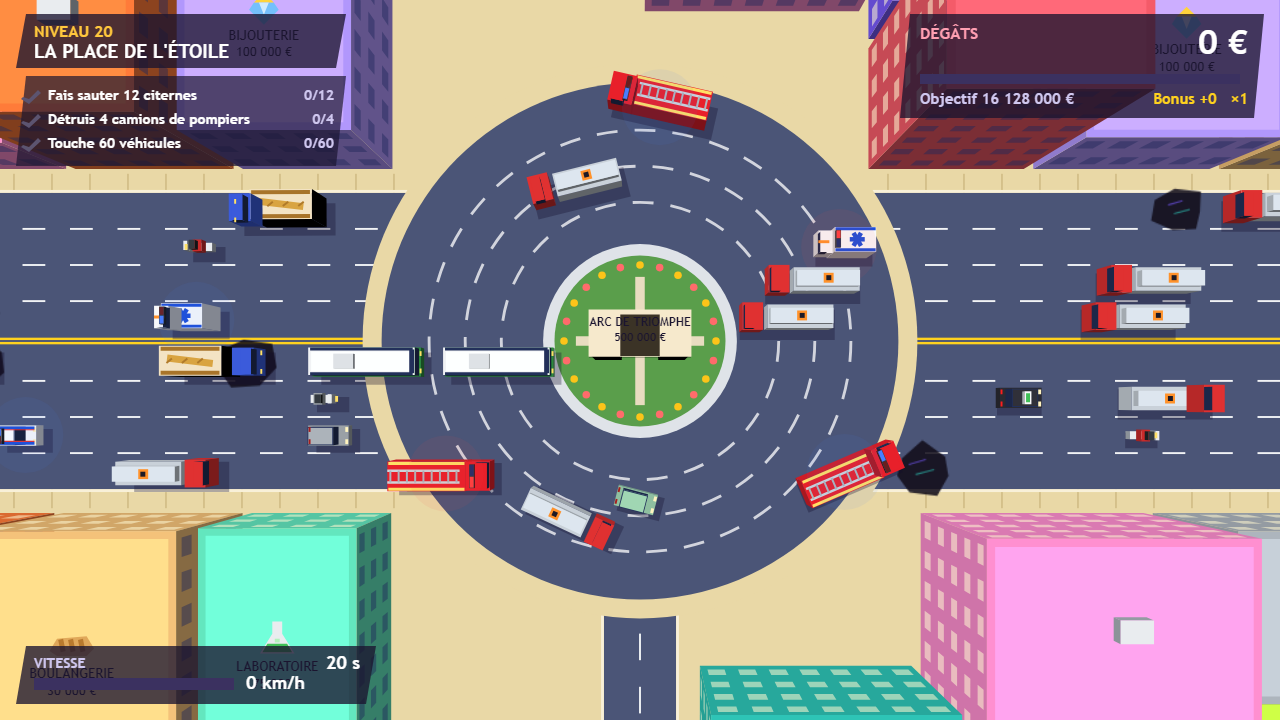
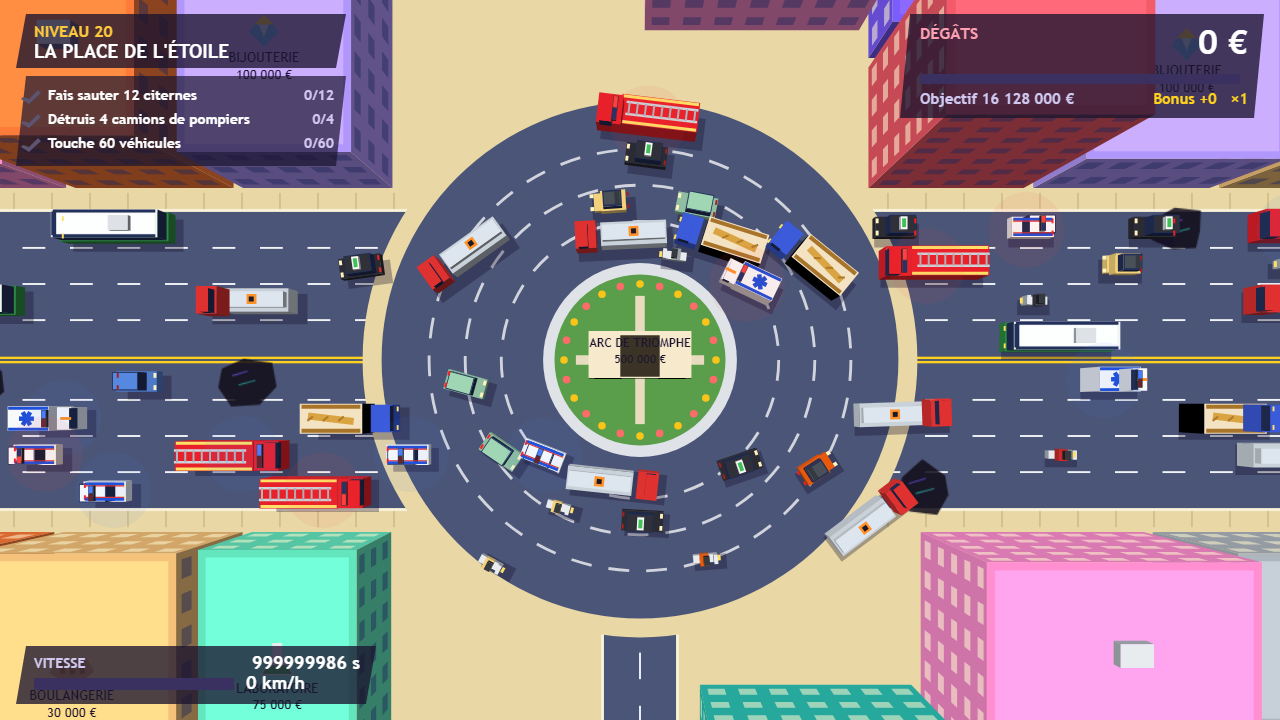
fix: on the roundabout the inner lane goes round too
The inner lane runs near the middle of the road, so it points straight at the island; it
only began to bend once a vehicle's centre reached the ring, and a long one's front was
already against the island: it stopped there, and the lane behind it. The way round is
now an ellipse rb_lead (70 px) wider than the ring along the road, so every vehicle starts
to bend sooner and its front clears the island. All eight lanes now get past the middle
(a test that failed on the eastbound inner lane before the fix); 158 vehicles cross the
square in 40 s, none crashing on its own.

Evidence: qa/evidence/fr-roundabout.png

diff --git a/src/main.ts b/src/main.ts
@@ -368,11 +368,16 @@ function buildRoundabout(st: Loose, lv: Loose) {
   for (const [hl, hw] of [[ri, ri * 0.6], [ri * 0.6, ri], [ri * 0.85, ri * 0.85]]) // a rounded island: a wide box, a tall one, a square
     st.props.push({ static: true, kind: 'island', part: arc, x: 0, y: 0, a: 0, hl, hw, h: 6, height: 999, invM: 0, invI: 0, vx: 0, vy: 0, w: 0, z: 0 });
 }
-/** Where a lane's car should be across the road at x: its lane, or round the ring when the ring bulges further out. */
+/**
+ * Where a lane's car should be across the road at x: its lane, or round the ring when the ring bulges
+ * further out. The way round is an ellipse, as wide as the ring plus rb_lead along the road: the car
+ * starts to bend before it reaches the ring, so a long one's front clears the island (a lane near the
+ * middle of the road points straight at it).
+ */
 function laneTargetY(ln: Loose, x: number): number {
   const rb = state.roundabout; if (!rb) return ln.y;
-  const R = ringRadius(rb, ln.idx || 0); if (Math.abs(x) >= R) return ln.y;
-  const yc = Math.sign(ln.y) * Math.sqrt(R * R - x * x);
+  const R = ringRadius(rb, ln.idx || 0), A = R + tune.rb_lead; if (Math.abs(x) >= A) return ln.y;
+  const yc = Math.sign(ln.y) * R * Math.sqrt(1 - (x / A) * (x / A));
   return Math.abs(yc) > Math.abs(ln.y) ? yc : ln.y;
 }
 function drawRoundaboutGround(st: Loose) {

diff --git a/tests/integration/france.spec.ts b/tests/integration/france.spec.ts
@@ -118,3 +118,18 @@ test('the Arc de Triomphe takes the hits on its island', async ({ page }) => {
   });
   expect(r).toEqual({ arcHurt: true, crashed: true });
 });
+
+test('on the roundabout every lane gets round, the inner one too, long vehicles included', async ({ page }) => {
+  await openLevel(page, 20);
+  const lanes = await page.evaluate(() => {
+    const g = window.game!, st = g.state as any;
+    st.player.x = 2000; st.player.y = 2000; st.player.control = false; st.timeLeft = 1e9;
+    const through = new Set<number>(); // the lanes (by direction and index) that had a vehicle past the middle
+    for (let f = 0; f < 60 * 25; f++) {
+      g.step(1, false);
+      for (const c of st.bodies) if (c.ai && Math.abs(c.x) < 8) through.add(c.lane.dir * (10 + c.lane.idx)); // eastbound 10-13, westbound -10 to -13
+    }
+    return [...through].sort((a, b) => a - b);
+  });
+  expect(lanes).toEqual([-13, -12, -11, -10, 10, 11, 12, 13]); // both ways, lanes 0 to 3
+});

diff --git a/data/config-notes.md b/data/config-notes.md
@@ -253,4 +253,6 @@ Old garage prices kept only to refund them: `nitro_cost`, `oilcan_cost`, `jump_c
 
 - `threshold_20`, `star2_20`, `star3_20`: its 1, 2 and 3-star scores, 12 % above level 19's until the autopilot measures them
 - `rb_island`: px, the island's radius (the ring's lanes go round it)
+- `rb_lead`: px before the ring where a lane starts to bend round it (its way round is an ellipse this much
+  wider than the ring), so a long vehicle's front clears the island
 - `value_arc`: € the Arc de Triomphe is worth; it takes the hits like a shop and falls once it has taken them all
